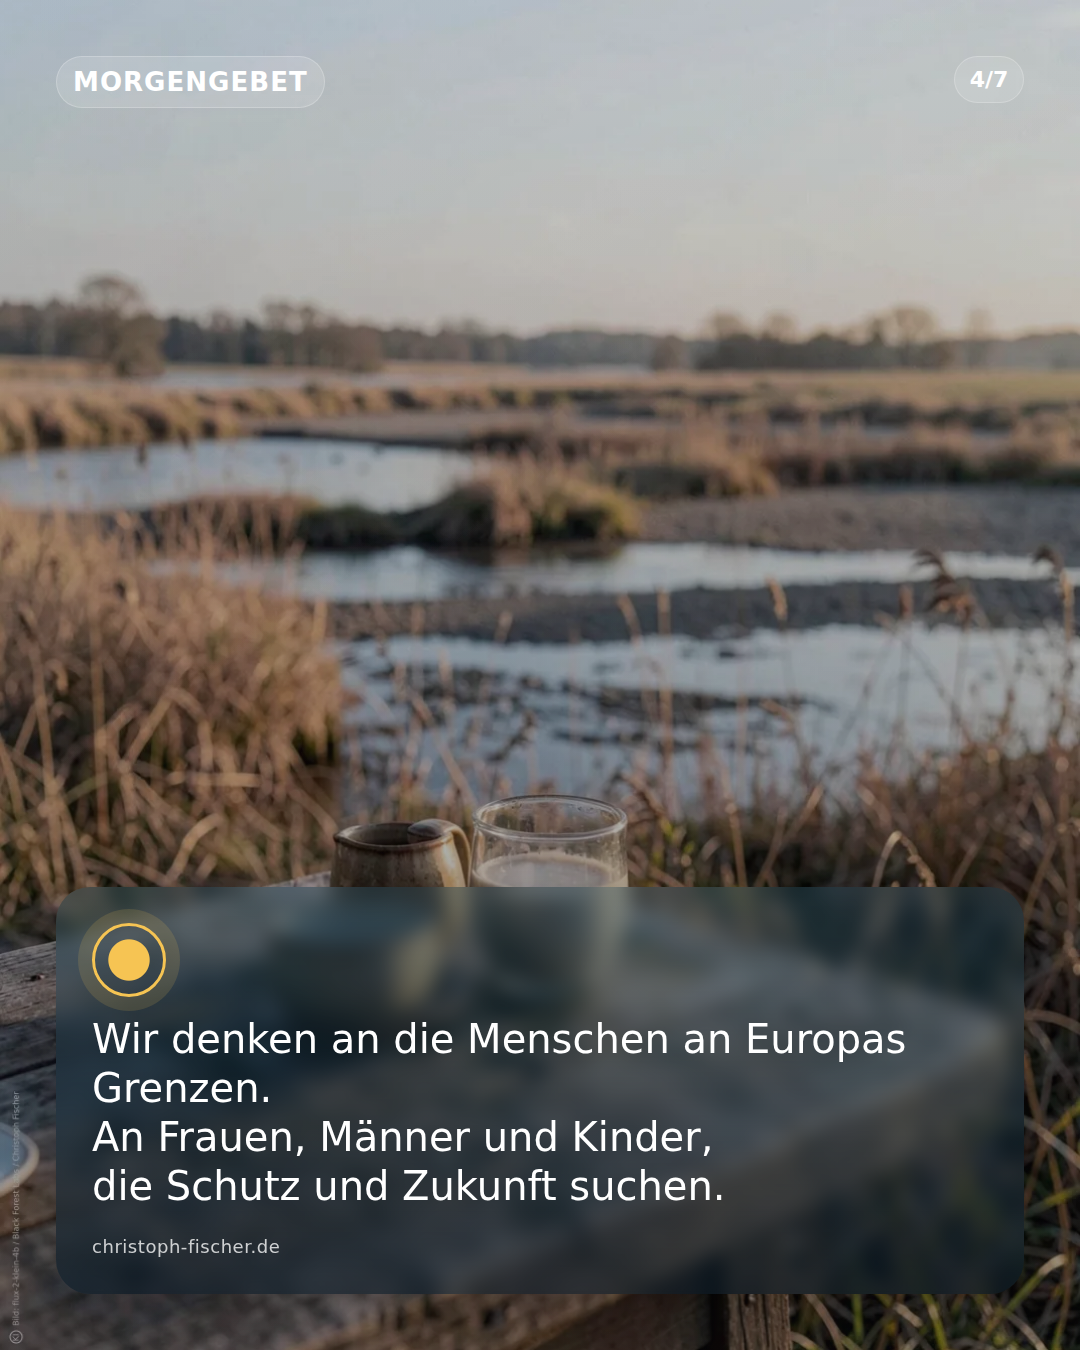
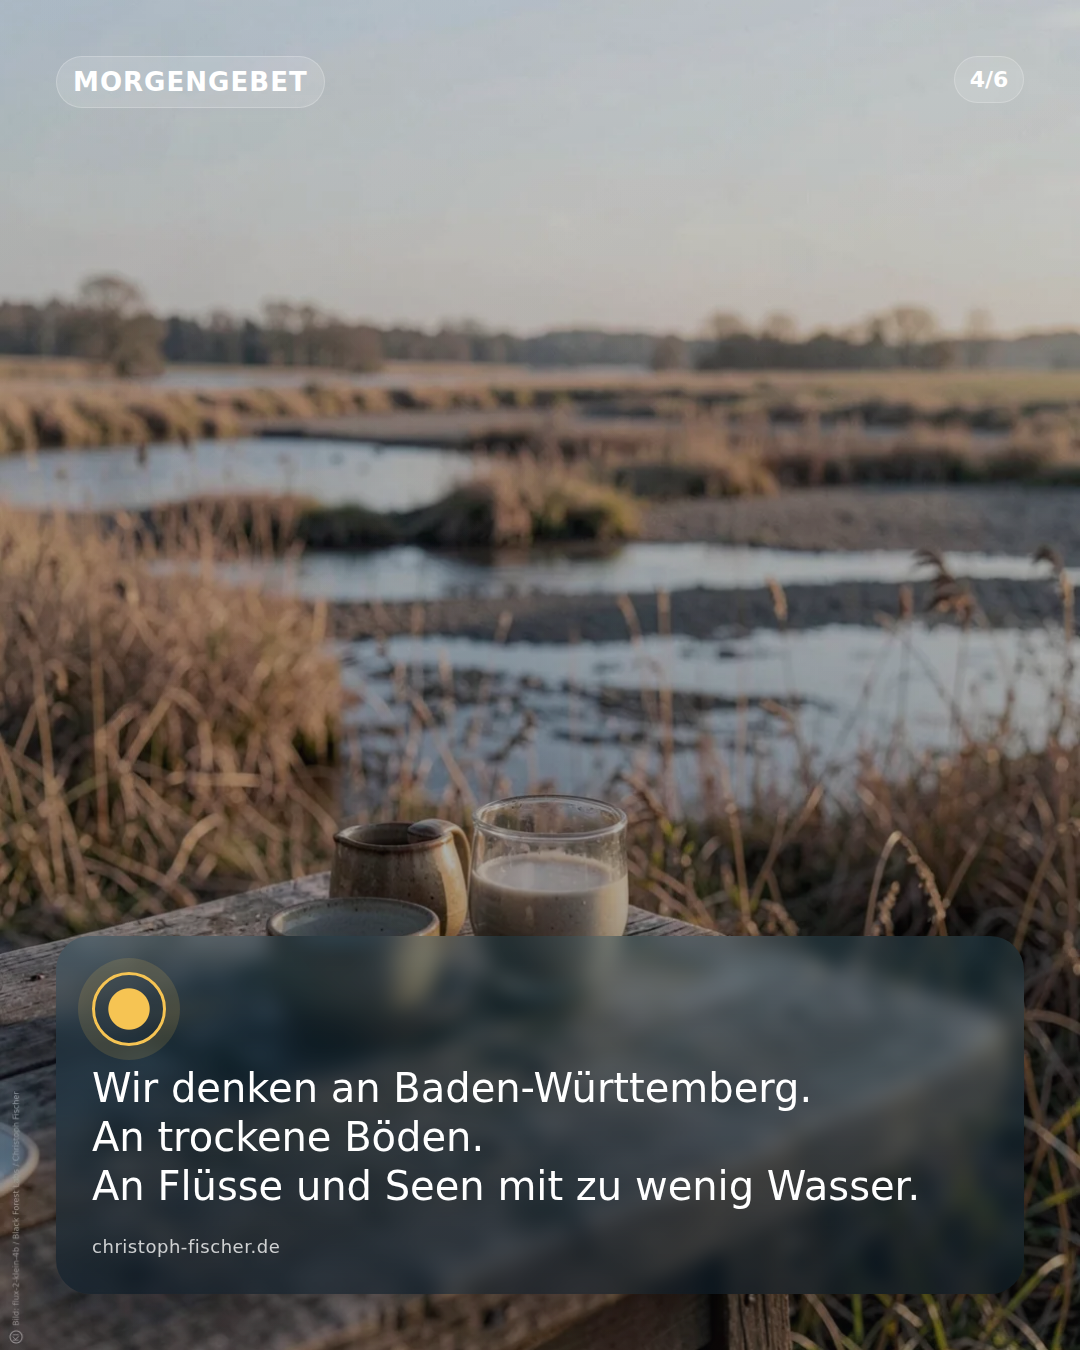
Update content: GET /files/2026-08-17/prayer-morning-2026-08-17/render-instagram-feed-04.png

Changed region(s): [[0.0306, 0.6533, 0.9472, 0.9022]]

diff --git a/2026-08-17/prayer-morning-2026-08-17/render-instagram-feed-03.html b/2026-08-17/prayer-morning-2026-08-17/render-instagram-feed-03.html
@@ -355,13 +355,13 @@
       <section class="layout">
         <div class="panel-meta">
           <div class="eyebrow">Morgengebet</div>
-          <div class="pager">3/7</div>
+          <div class="pager">3/6</div>
         </div>
         <section class="panel prayer-panel">
   <div class="prayer-symbol prayer-symbol-morning" aria-hidden="true"></div>
-  <p class="body-text" data-overflow-id="primary-text">Wir denken an die Menschen in der Ukraine.
-An zerstörte Wohnungen.
-An Familien und Rettungskräfte zwischen Trümmern.</p>
+  <p class="body-text" data-overflow-id="primary-text">Wir denken an die Menschen an Europas Grenzen.
+An Frauen, Männer und Kinder,
+die Schutz und Zukunft suchen.</p>
   <p class="sender-mark">christoph-fischer.de</p>
 </section>
 

diff --git a/2026-08-17/prayer-morning-2026-08-17/render-instagram-feed-04.html b/2026-08-17/prayer-morning-2026-08-17/render-instagram-feed-04.html
@@ -355,13 +355,13 @@
       <section class="layout">
         <div class="panel-meta">
           <div class="eyebrow">Morgengebet</div>
-          <div class="pager">4/7</div>
+          <div class="pager">4/6</div>
         </div>
         <section class="panel prayer-panel">
   <div class="prayer-symbol prayer-symbol-morning" aria-hidden="true"></div>
-  <p class="body-text" data-overflow-id="primary-text">Wir denken an die Menschen an Europas Grenzen.
-An Frauen, Männer und Kinder,
-die Schutz und Zukunft suchen.</p>
+  <p class="body-text" data-overflow-id="primary-text">Wir denken an Baden-Württemberg.
+An trockene Böden.
+An Flüsse und Seen mit zu wenig Wasser.</p>
   <p class="sender-mark">christoph-fischer.de</p>
 </section>
 

diff --git a/2026-08-17/prayer-morning-2026-08-17/render-instagram-feed-05.html b/2026-08-17/prayer-morning-2026-08-17/render-instagram-feed-05.html
@@ -355,13 +355,13 @@
       <section class="layout">
         <div class="panel-meta">
           <div class="eyebrow">Morgengebet</div>
-          <div class="pager">5/7</div>
+          <div class="pager">5/6</div>
         </div>
         <section class="panel prayer-panel">
   <div class="prayer-symbol prayer-symbol-morning" aria-hidden="true"></div>
-  <p class="body-text" data-overflow-id="primary-text">Wir denken an Baden-Württemberg.
-An trockene Böden.
-An Flüsse und Seen mit zu wenig Wasser.</p>
+  <p class="body-text" data-overflow-id="primary-text">Sei den Leidenden nahe.
+Stärke alle, die helfen.
+Mach uns heute mutig zum Guten.</p>
   <p class="sender-mark">christoph-fischer.de</p>
 </section>
 
